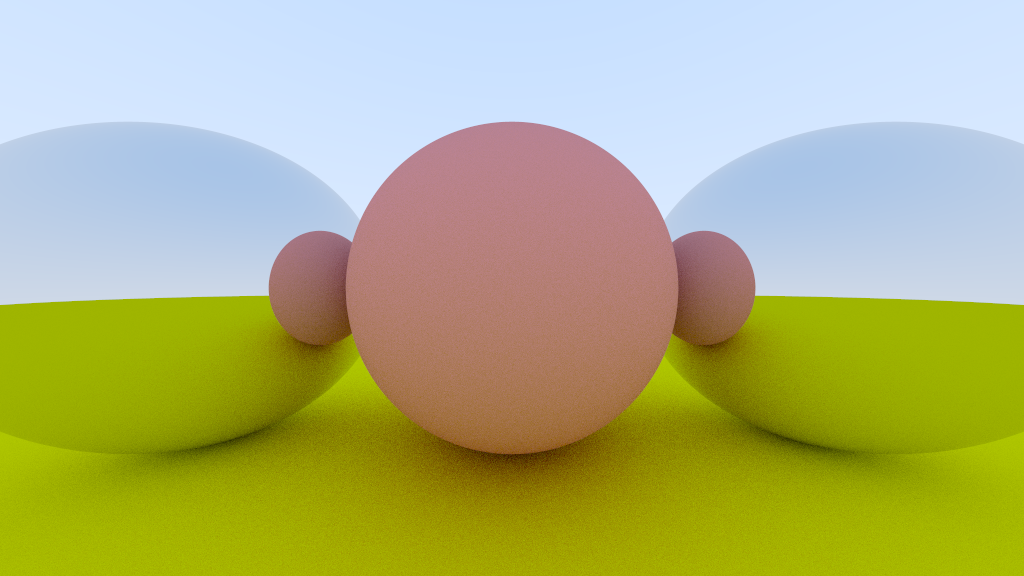
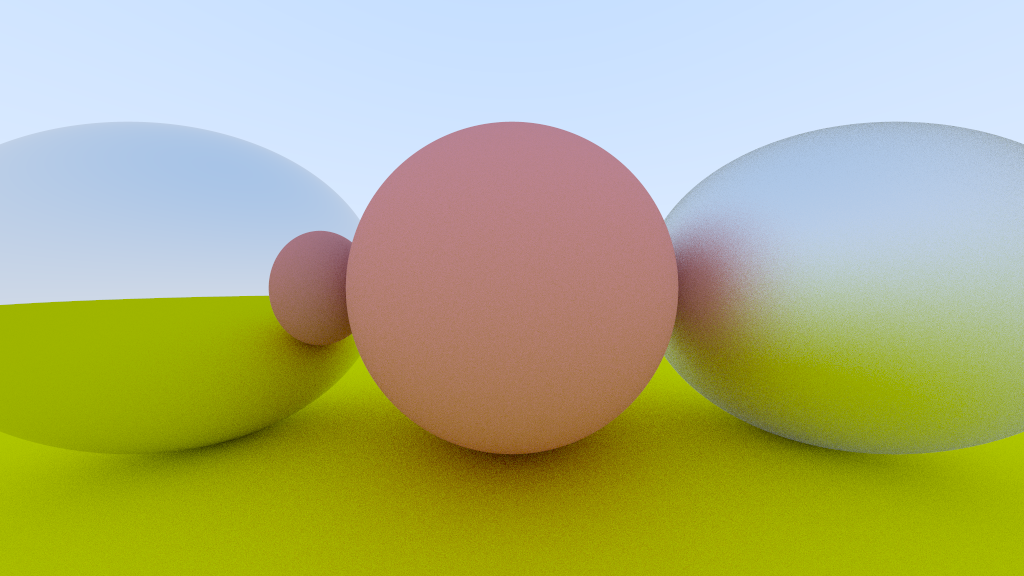
Implement rougness for metalic reflection

diff --git a/src/render/material.rs b/src/render/material.rs
@@ -51,7 +51,8 @@ impl Material for Diffuse
 
 pub struct Metalic
 {
-    albedo: Color
+    albedo: Color,
+    roughness: f32
 }
 
 impl Metalic
@@ -60,15 +61,17 @@ impl Metalic
     {
         Metalic
         {
-            albedo: Color::new(1.0, 1.0, 1.0, 1.0)
+            albedo: Color::new(1.0, 1.0, 1.0, 1.0),
+            roughness: 0.0
         }
     }
 
-    pub fn from(albedo: Color) -> Self
+    pub fn from(albedo: Color, roughness: f32) -> Self
     {
         Metalic
         {
-            albedo
+            albedo,
+            roughness
         }
     }
 
@@ -77,23 +80,23 @@ impl Metalic
         self.albedo = color;
         self
     }
+
+    pub fn set_roughness(mut self, roughness: f32) -> Self
+    {
+        self.roughness = roughness;
+        self
+    }
 }
 
 impl Material for Metalic
 {
     fn scatter(&self, ray: &Ray, intersection: &Intersection, _scatter_index: u16) -> (Option<Ray>, Color)
     {
-        let reflected_dir = ray.get_direction().reflected(intersection.normal);
+        let reflection_rougness = Vec3::random_in_unit_sphere() * self.roughness;
+        let reflected_dir = (ray.get_direction().reflected(intersection.normal) + reflection_rougness).normalized();
         let scattered_ray = Ray::new(intersection.point, reflected_dir);
 
-        if scattered_ray.get_direction().dot(intersection.normal) > 0.0
-        {
-            (Some(scattered_ray), self.albedo)
-        }
-        else
-        {
-            (None, Color::black())
-        }
+        (Some(scattered_ray), self.albedo)
     }
 }
 

diff --git a/src/main.rs b/src/main.rs
@@ -22,8 +22,8 @@ fn main()
     
     let scene = render::Scene::new()
         .add_primitive(primitive::Sphere::new(Vec3::new(0.0, 0.0, -1.0), 0.5, material::Diffuse::from(Color::new(0.8, 0.3, 0.3, 1.0))))
-        .add_primitive(primitive::Sphere::new(Vec3::new(1.0, 0.0, -1.0), 0.5, material::Metalic::from(Color::new(0.8, 0.8, 0.8, 1.0))))
-        .add_primitive(primitive::Sphere::new(Vec3::new(-1.0, 0.0, -1.0), 0.5, material::Metalic::from(Color::new(0.8, 0.8, 0.8, 1.0))))
+        .add_primitive(primitive::Sphere::new(Vec3::new(1.0, 0.0, -1.0), 0.5, material::Metalic::from(Color::new(0.8, 0.8, 0.8, 1.0), 0.8)))
+        .add_primitive(primitive::Sphere::new(Vec3::new(-1.0, 0.0, -1.0), 0.5, material::Metalic::from(Color::new(0.8, 0.8, 0.8, 1.0), 0.0)))
         .add_primitive(primitive::Sphere::new(Vec3::new(0.0, -100.5, -1.0), 100.0, material::Diffuse::from(Color::new(0.8, 0.8, 0.0, 1.0))));
 
     {
@@ -33,7 +33,7 @@ fn main()
         .set_camera(&camera)
             .set_scene(&scene)
             .set_antialias_samples(8)
-            .set_scatter_limit(32)
+            .set_scatter_limit(128)
             .render(&mut render_image)
             .print_stats();
     

diff --git a/src/math/color.rs b/src/math/color.rs
@@ -33,6 +33,17 @@ impl Color
         }
     }
 
+    pub fn white() -> Self
+    {
+        Color
+        {
+            r: 1.0,
+            g: 1.0,
+            b: 1.0,
+            a: 1.0
+        }
+    }
+
     pub fn black() -> Self
     {
         Color
@@ -95,6 +106,17 @@ impl Color
             g: self.g * factor,
             b: self.b * factor,
             a: self.a * factor
+        }
+    }
+
+    pub fn clamp(self) -> Color
+    {
+        Color
+        {
+            r: self.r.max(0.0).min(1.0),
+            g: self.g.max(0.0).min(1.0),
+            b: self.b.max(0.0).min(1.0),
+            a: self.a.max(0.0).min(1.0)
         }
     }
 
